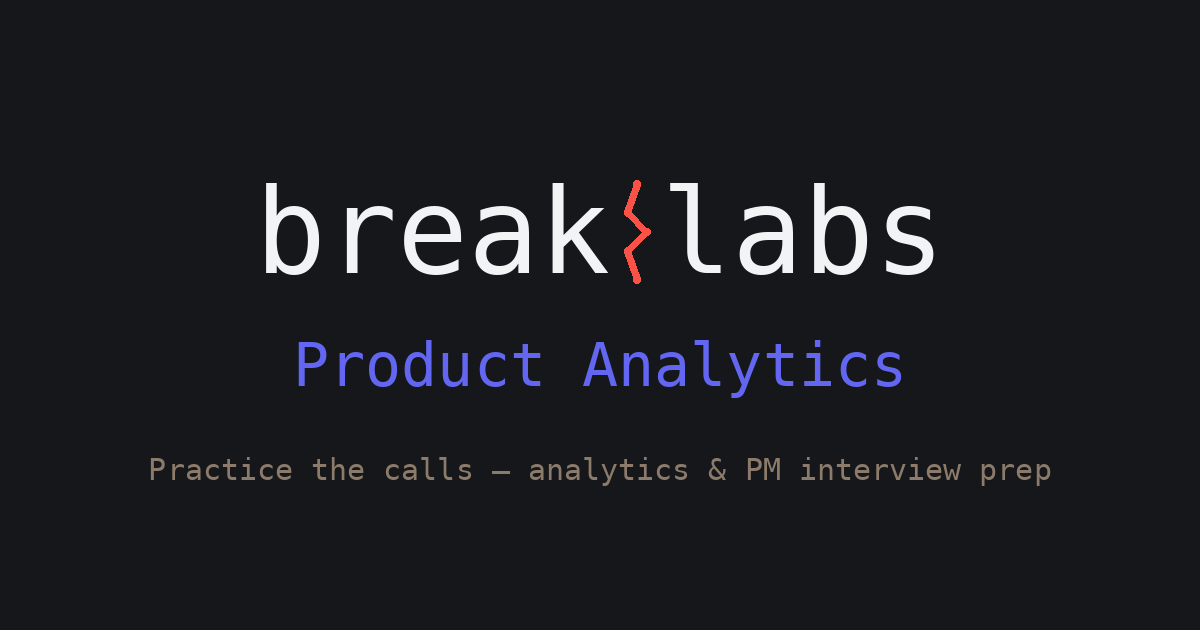
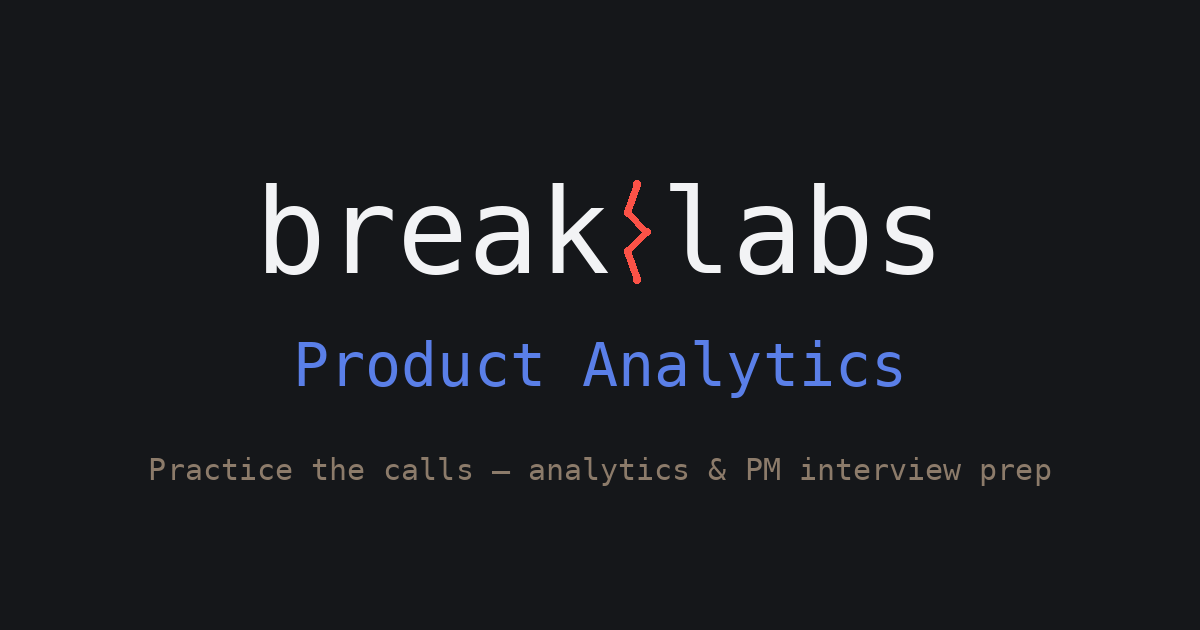
brand: stack 'Product Analytics' under break⌇labs in PAL blue (descriptor → var(--accent); seam stays red)

Changed region(s): [[0.4933, 0.5429, 0.74, 0.6333], [0.2467, 0.5429, 0.4625, 0.6333], [0.74, 0.573, 0.7708, 0.6032]]

diff --git a/src/components/shared/BrandMark.jsx b/src/components/shared/BrandMark.jsx
@@ -1,10 +1,11 @@
 // BrandMark.jsx — canonical BreakLabs lockup (D-19, HQ/BRANDMARK-ROLLOUT.md).
 // House rule: single quotes. Constant across all labs: seam red + wordmark.
-// Per lab: descriptor text + accent (PAL = 'Product Analytics' / indigo #6366F1).
+// Per lab: descriptor text + accent. PAL uses its OWN signature blue (var(--accent)) for the
+// descriptor — a deliberate override of HQ's assigned indigo track accent (Sidharth's call).
 // PAL token map (spec → PAL CSS vars): --ink-hi → --text, --ink-low → --text-dim,
 // --rim → --border, --surface and --font-mono are used as-is.
-const SEAM = '#FB5247';      // brand red — the fault-glyph (CONSTANT — do not change)
-const PAL_ACCENT = '#6366F1'; // PAL track accent — indigo (descriptor only)
+const SEAM = '#FB5247';          // brand red — the fault-glyph (CONSTANT — do not change)
+const PAL_ACCENT = 'var(--accent)'; // PAL signature blue — descriptor only (seam stays red)
 
 function Seam({ h = 28 }) {
   const w = Math.round(h * 0.32);
@@ -24,6 +25,22 @@ export function BrandMark({ variant = 'full', descriptor = '', accent = PAL_ACCE
         width: size, height: size, borderRadius: Math.round(size * 0.24),
         background: 'var(--surface, #15171A)', border: '1px solid var(--border, #2A2D31)' }}>
         <Seam h={Math.round(size * 0.62)} />
+      </span>
+    );
+  }
+  if (variant === 'stacked') {
+    // wordmark on top, descriptor stacked below (for narrow rails like the sidebar)
+    return (
+      <span aria-label={descriptor ? 'BreakLabs ' + descriptor : 'BreakLabs'}
+        style={{ display: 'inline-flex', flexDirection: 'column', alignItems: 'flex-start', fontFamily: 'var(--font-mono)', lineHeight: 1.12 }}>
+        <span style={{ display: 'inline-flex', alignItems: 'center', fontWeight: 500, letterSpacing: '-0.01em', color: 'var(--text, #F2F3F5)', fontSize: size }}>
+          break<Seam h={size} />labs
+        </span>
+        {descriptor && (
+          <span style={{ color: accent, fontSize: Math.round(size * 0.52), fontWeight: 600, letterSpacing: '0.02em', marginTop: '0.12em' }}>
+            {descriptor}
+          </span>
+        )}
       </span>
     );
   }

diff --git a/src/components/layout/Sidebar.jsx b/src/components/layout/Sidebar.jsx
@@ -329,10 +329,10 @@ export function Sidebar({ currentPage, onNavigate, unlockedStatus, theme, onTogg
             onMouseEnter={e => { e.currentTarget.style.opacity = '0.75'; }}
             onMouseLeave={e => { e.currentTarget.style.opacity = '1'; }}
           >
-            {/* Slot 1 — primary in-app mark (BrandMark, D-19). Sidebar is 222px, so the
-                lockup degrades to `wordmark`; the 'Product Analytics' descriptor lives in
-                the page/tab title per the spec degrade rule. */}
-            <BrandMark variant='wordmark' size={18} />
+            {/* Slot 1 — primary in-app mark (BrandMark, D-19). Stacked so the
+                'Product Analytics' descriptor sits under the break⌇labs wordmark
+                without overflowing the 222px rail. */}
+            <BrandMark variant='stacked' descriptor='Product Analytics' size={17} />
           </button>
 
           {isTerminal ? (
